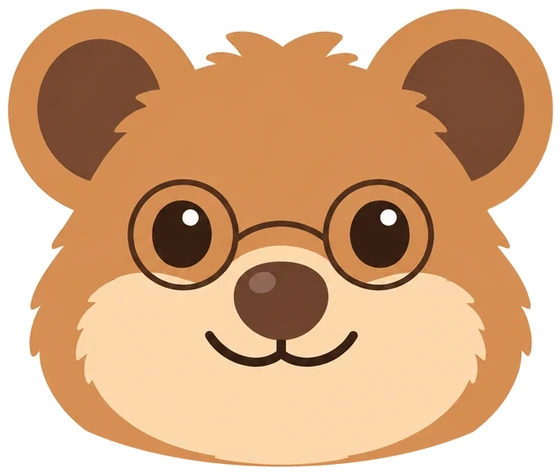
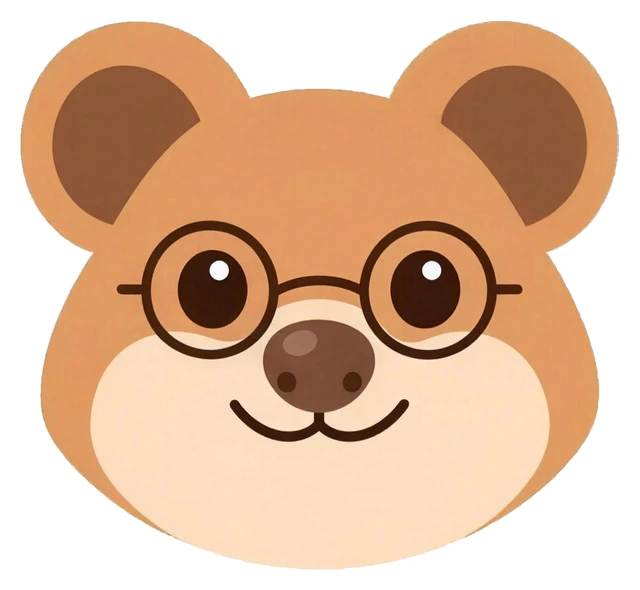
캐릭터 얼굴 세 개를 한 세트로 교체: 같은 외곽·같은 흰 테두리, 선생님 쿼카에 연필과 리본
Claude-Session: https://claude.ai/code/session_015Hx6RtoRvdtMnoAAjwFr95

diff --git a/assets/style.css b/assets/style.css
@@ -775,7 +775,7 @@ h3.sec::before { background: var(--pink); }
 .qk { transform-origin: 50% 85%; transform: translate(calc(var(--lx, 0) * var(--k)), calc(var(--ly, 0) * var(--k) * .6)) rotate(calc(var(--tilt, 0deg) + var(--lx, 0) * var(--kr))); }
 .qk span { position: relative; transform-origin: 50% 85%; }
 .qk img { height: auto; transform-origin: 50% 90%; filter: drop-shadow(0 10px 12px rgba(27,42,92,.16)); }
-.qk .lid { position: absolute; border-radius: 50%; background: #d29058; transform: scaleY(0); transform-origin: 50% 0; animation: qk-blink 4.6s infinite; pointer-events: none; }
+.qk .lid { position: absolute; border-radius: 50%; background: #e29963; transform: scaleY(0); transform-origin: 50% 0; animation: qk-blink 4.6s infinite; pointer-events: none; }
 .qk:focus-visible { border-radius: 40%; }
 @keyframes qk-blink { 0%, 93%, 100% { transform: scaleY(0); } 95.5%, 97% { transform: scaleY(1); } }
 @keyframes qk-float { 0%, 100% { transform: translateY(0) rotate(0); } 50% { transform: translateY(-9px) rotate(1.2deg); } }
@@ -841,3 +841,12 @@ h3.sec::before { background: var(--pink); }
 .actions { display: flex; gap: 8px; flex-wrap: wrap; margin-top: 18px; }
 @media (max-width: 760px) { .actions .btn { flex: 1 1 100%; } .qbot-btn .qbot-label { display: none; } .qbot-btn { padding: 5px; width: 56px; height: 56px; border-radius: 50%; justify-content: center; } .qbot-btn .qbot-face { width: 46px; height: 46px; } }
 .btns .btn { min-width: 132px; }
+
+/* v12: 한 세트로 다시 그린 얼굴. 귀가 가려지지 않게 흰 테두리만 살짝 겹친다 */
+.hh-stage { align-items: flex-end; }
+.hh-stage .qk.q1 img, .hh-stage .qk.q3 img { width: 178px; } .hh-stage .qk.q2 img { width: 222px; }
+.qk.q1, .qk.q3 { margin-top: 0; } .qk.q2 { margin: 0 -14px 26px; }
+.qk img { filter: drop-shadow(0 8px 12px rgba(27,42,92,.16)); }
+.empty::before { width: 84px; height: 82px; }
+@media (max-width: 1100px) { .hh-stage .qk.q1 img, .hh-stage .qk.q3 img { width: 150px; } .hh-stage .qk.q2 img { width: 188px; } .qk.q2 { margin: 0 -12px 22px; } }
+@media (max-width: 760px) { .hh-stage .qk.q1 img, .hh-stage .qk.q3 img { width: 104px; } .hh-stage .qk.q2 img { width: 130px; } .qk.q1, .qk.q3 { margin-top: 0; } .qk.q2 { margin: 0 -9px 16px; } }

diff --git a/index.html b/index.html
@@ -10,7 +10,7 @@
 <link rel="preconnect" href="https://fonts.googleapis.com"><link rel="preconnect" href="https://fonts.gstatic.com" crossorigin>
 <link rel="stylesheet" href="https://fonts.googleapis.com/css2?family=Noto+Sans+KR:wght@400;500;700;800&display=swap">
 <link rel="stylesheet" href="https://cdn.jsdelivr.net/npm/xeicon@2.3.3/xeicon.min.css">
-<link rel="stylesheet" href="assets/style.css?v=11">
+<link rel="stylesheet" href="assets/style.css?v=12">
 </head>
 <body>
 <div id="demo" class="demo-flag" hidden>미리보기 모드예요. 예시 데이터로 보여주고 있고, 입력해도 실제로 저장되지 않아요.</div>
@@ -73,6 +73,6 @@
 
 <script src="config.js"></script>
 <script src="assets/quoka.js"></script>
-<script src="assets/app.js?v=11"></script>
+<script src="assets/app.js?v=12"></script>
 </body>
 </html>

diff --git a/assets/app.js b/assets/app.js
@@ -107,7 +107,7 @@
     window.scrollTo(0, 0);
   }
 
-  var QK_EYES = { snu: [26, 61.9, 49.1, 12.5, 14.2], researcher: [26.6, 62, 41.6, 11.7, 15.6], teacher: [26.3, 61.8, 40.3, 12.4, 16.4] };
+  var QK_EYES = { snu: [27.4, 60.5, 50.2, 12.1, 12.5], researcher: [27, 60.3, 41.6, 12.4, 14.8], teacher: [27.2, 60.4, 45.4, 12.2, 13.8] };
   function qkHead(kind, cls, label) {
     var e = QK_EYES[kind], lid = function (x) { return '<i class="lid" style="left:' + x + '%;top:' + e[2] + '%;width:' + e[3] + '%;height:' + e[4] + '%"></i>'; };
     return '<button type="button" class="qk ' + cls + '" aria-label="' + label + '"><span><img src="assets/img/qk-' + kind + '.webp" alt="">' + lid(e[0]) + lid(e[1]) + '</span></button>';
